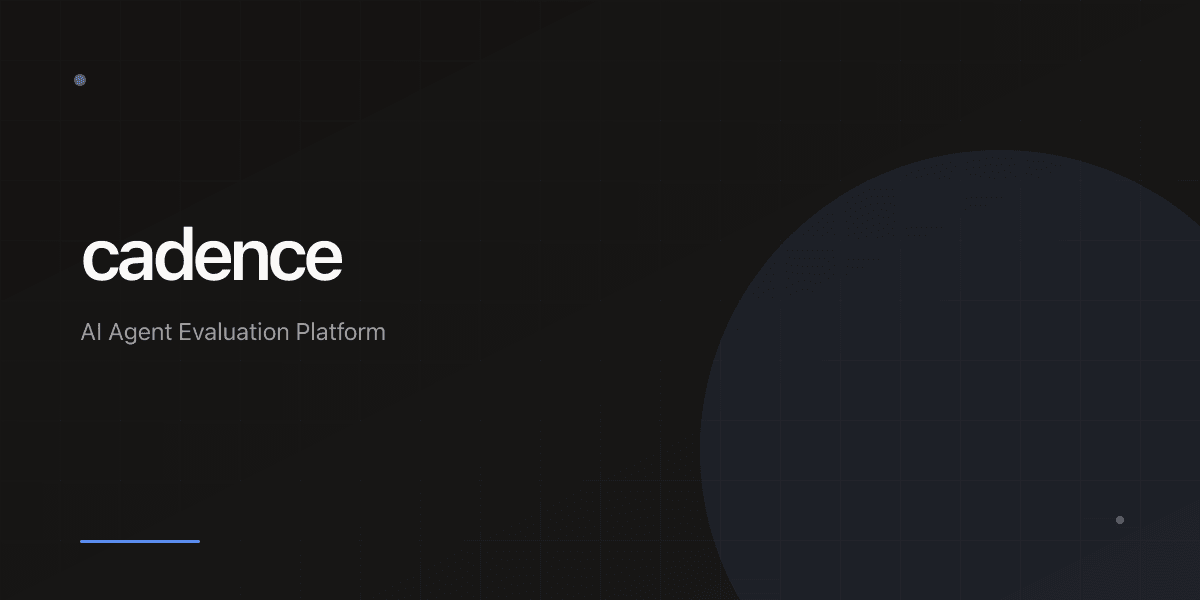
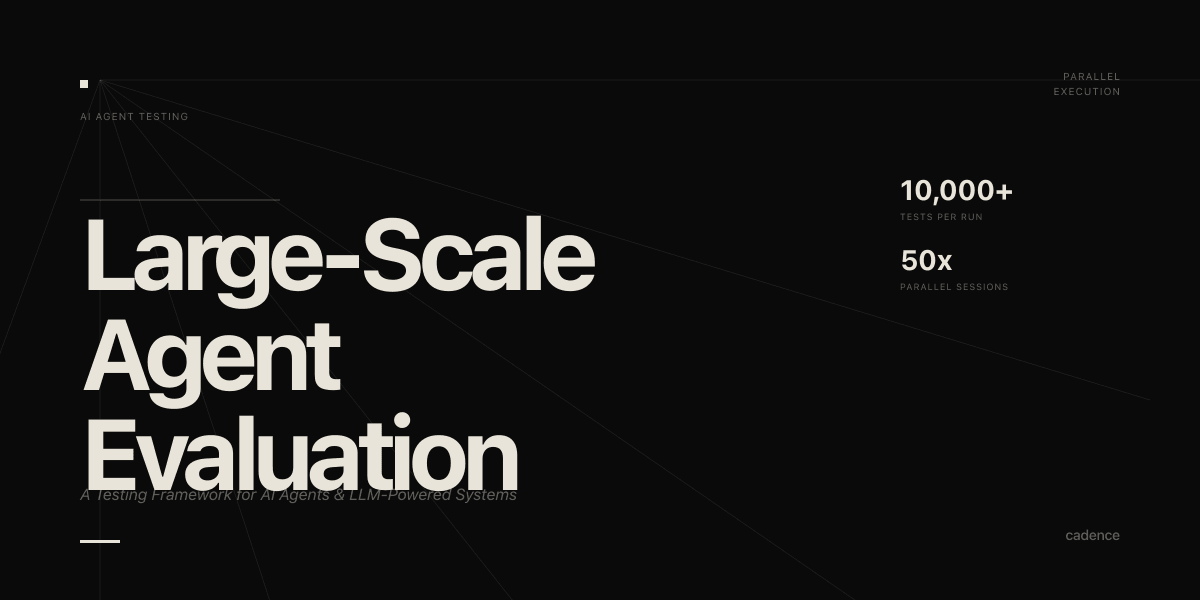
Update brand assets with Neo-Brutalist style

diff --git a/scripts/generate-assets.ts b/scripts/generate-assets.ts
@@ -2,13 +2,13 @@ import sharp from "sharp";
 import { writeFileSync } from "fs";
 import { join } from "path";
 
-// Brand colors extracted from globals.css (oklch converted to hex approximations)
+// Brand colors from landing page
 const COLORS = {
-  background: "#141211", // oklch(0.085 0.01 20)
-  foreground: "#faf9f8", // oklch(0.98 0.005 20)
-  accent: "#5b8def", // oklch(0.65 0.15 250)
-  muted: "#3d3a38", // oklch(0.2 0.008 20)
-  border: "#4a4644", // oklch(0.25 0.008 20)
+  background: "#0A0A0A",
+  foreground: "#E8E4D9",
+  foregroundMuted: "rgba(232, 228, 217, 0.4)",
+  foregroundSubtle: "rgba(232, 228, 217, 0.1)",
+  border: "rgba(232, 228, 217, 0.1)",
 };
 
 const PUBLIC_DIR = join(process.cwd(), "public");
@@ -18,57 +18,123 @@ async function generateOGImage(
   height: number,
   filename: string
 ) {
-  // Create SVG with brand elements
+  // Neo-Brutalist Swiss Typography style matching landing page
   const svg = `
     <svg width="${width}" height="${height}" xmlns="http://www.w3.org/2000/svg">
       <defs>
-        <linearGradient id="grain" x1="0%" y1="0%" x2="100%" y2="100%">
-          <stop offset="0%" style="stop-color:${COLORS.background};stop-opacity:1" />
-          <stop offset="100%" style="stop-color:#1a1918;stop-opacity:1" />
-        </linearGradient>
-        <!-- Subtle grid pattern -->
-        <pattern id="grid" width="60" height="60" patternUnits="userSpaceOnUse">
-          <path d="M 60 0 L 0 0 0 60" fill="none" stroke="${COLORS.border}" stroke-width="0.5" opacity="0.3"/>
+        <!-- Grain texture filter -->
+        <filter id="grain" x="0" y="0" width="100%" height="100%">
+          <feTurbulence type="fractalNoise" baseFrequency="0.9" numOctaves="4" result="noise"/>
+          <feColorMatrix type="saturate" values="0"/>
+          <feBlend in="SourceGraphic" in2="noise" mode="multiply"/>
+        </filter>
+
+        <!-- Radial lines pattern -->
+        <pattern id="radialLines" x="0" y="0" width="${width}" height="${height}" patternUnits="userSpaceOnUse">
+          <line x1="100" y1="80" x2="1200" y2="80" stroke="${COLORS.foreground}" stroke-width="0.5" opacity="0.15"/>
+          <line x1="100" y1="80" x2="1150" y2="400" stroke="${COLORS.foreground}" stroke-width="0.5" opacity="0.15"/>
+          <line x1="100" y1="80" x2="1000" y2="700" stroke="${COLORS.foreground}" stroke-width="0.5" opacity="0.15"/>
+          <line x1="100" y1="80" x2="750" y2="900" stroke="${COLORS.foreground}" stroke-width="0.5" opacity="0.15"/>
+          <line x1="100" y1="80" x2="400" y2="1000" stroke="${COLORS.foreground}" stroke-width="0.5" opacity="0.15"/>
+          <line x1="100" y1="80" x2="100" y2="1000" stroke="${COLORS.foreground}" stroke-width="0.5" opacity="0.15"/>
+          <line x1="100" y1="80" x2="-200" y2="900" stroke="${COLORS.foreground}" stroke-width="0.5" opacity="0.15"/>
         </pattern>
       </defs>
 
       <!-- Background -->
-      <rect width="100%" height="100%" fill="url(#grain)"/>
+      <rect width="100%" height="100%" fill="${COLORS.background}"/>
 
-      <!-- Grid overlay -->
-      <rect width="100%" height="100%" fill="url(#grid)"/>
+      <!-- Radial lines overlay -->
+      <rect width="100%" height="100%" fill="url(#radialLines)"/>
 
-      <!-- Accent circle -->
-      <circle cx="${width - 200}" cy="${height - 150}" r="300" fill="${COLORS.accent}" opacity="0.08"/>
+      <!-- Grain overlay -->
+      <rect width="100%" height="100%" fill="${COLORS.background}" opacity="0.03" filter="url(#grain)"/>
 
-      <!-- Small decorative elements -->
-      <circle cx="80" cy="80" r="6" fill="${COLORS.accent}" opacity="0.6"/>
-      <circle cx="${width - 80}" cy="${height - 80}" r="4" fill="${COLORS.foreground}" opacity="0.3"/>
+      <!-- Small decorative square (logo mark) -->
+      <rect x="80" y="80" width="8" height="8" fill="${COLORS.foreground}"/>
 
-      <!-- Main wordmark -->
+      <!-- Floating label top-left -->
+      <text x="80" y="120" font-family="system-ui, -apple-system, sans-serif" font-size="10" fill="${COLORS.foregroundMuted}" letter-spacing="0.1em">
+        AI AGENT TESTING
+      </text>
+
+      <!-- Floating label top-right -->
+      <text x="${width - 80}" y="80" font-family="system-ui, -apple-system, sans-serif" font-size="10" fill="${COLORS.foregroundMuted}" letter-spacing="0.1em" text-anchor="end">
+        PARALLEL
+      </text>
+      <text x="${width - 80}" y="95" font-family="system-ui, -apple-system, sans-serif" font-size="10" fill="${COLORS.foregroundMuted}" letter-spacing="0.1em" text-anchor="end">
+        EXECUTION
+      </text>
+
+      <!-- Horizontal divider line -->
+      <line x1="80" y1="200" x2="280" y2="200" stroke="${COLORS.foreground}" stroke-width="1" opacity="0.3"/>
+
+      <!-- Main headline - Large-Scale -->
       <text
         x="80"
-        y="${height / 2 - 20}"
+        y="290"
         font-family="system-ui, -apple-system, sans-serif"
-        font-size="72"
-        font-weight="600"
+        font-size="100"
+        font-weight="700"
         fill="${COLORS.foreground}"
-        letter-spacing="-0.03em"
+        letter-spacing="-0.04em"
+      >Large-Scale</text>
+
+      <!-- Main headline - Agent -->
+      <text
+        x="80"
+        y="390"
+        font-family="system-ui, -apple-system, sans-serif"
+        font-size="100"
+        font-weight="700"
+        fill="${COLORS.foreground}"
+        letter-spacing="-0.04em"
+      >Agent</text>
+
+      <!-- Main headline - Evaluation -->
+      <text
+        x="80"
+        y="490"
+        font-family="system-ui, -apple-system, sans-serif"
+        font-size="100"
+        font-weight="700"
+        fill="${COLORS.foreground}"
+        letter-spacing="-0.04em"
+      >Evaluation</text>
+
+      <!-- Tagline italic -->
+      <text
+        x="80"
+        y="${height - 100}"
+        font-family="system-ui, -apple-system, sans-serif"
+        font-size="16"
+        font-style="italic"
+        fill="${COLORS.foregroundMuted}"
+      >A Testing Framework for AI Agents &amp; LLM-Powered Systems</text>
+
+      <!-- Bottom decorative elements -->
+      <rect x="80" y="${height - 60}" width="40" height="3" fill="${COLORS.foreground}"/>
+
+      <!-- Brand name bottom right -->
+      <text
+        x="${width - 80}"
+        y="${height - 60}"
+        font-family="system-ui, -apple-system, sans-serif"
+        font-size="14"
+        font-weight="500"
+        fill="${COLORS.foregroundMuted}"
+        text-anchor="end"
+        letter-spacing="-0.02em"
       >cadence</text>
 
-      <!-- Tagline -->
-      <text
-        x="80"
-        y="${height / 2 + 40}"
-        font-family="system-ui, -apple-system, sans-serif"
-        font-size="24"
-        fill="${COLORS.foreground}"
-        opacity="0.6"
-        letter-spacing="0.02em"
-      >AI Agent Evaluation Platform</text>
+      <!-- Stats indicators -->
+      <g transform="translate(${width - 300}, 200)">
+        <text x="0" y="0" font-family="system-ui, -apple-system, sans-serif" font-size="28" font-weight="700" fill="${COLORS.foreground}">10,000+</text>
+        <text x="0" y="20" font-family="system-ui, -apple-system, sans-serif" font-size="9" fill="${COLORS.foregroundMuted}" letter-spacing="0.1em">TESTS PER RUN</text>
 
-      <!-- Bottom accent line -->
-      <rect x="80" y="${height - 60}" width="120" height="3" fill="${COLORS.accent}" rx="1.5"/>
+        <text x="0" y="70" font-family="system-ui, -apple-system, sans-serif" font-size="28" font-weight="700" fill="${COLORS.foreground}">50x</text>
+        <text x="0" y="90" font-family="system-ui, -apple-system, sans-serif" font-size="9" fill="${COLORS.foregroundMuted}" letter-spacing="0.1em">PARALLEL SESSIONS</text>
+      </g>
     </svg>
   `;
 
@@ -78,22 +144,28 @@ async function generateOGImage(
 }
 
 async function generateFavicon() {
-  // Simple "C" mark favicon
-  const createFaviconSvg = (size: number) => `
+  // Minimalist square mark favicon (matching the logo mark on landing)
+  const createFaviconSvg = (size: number) => {
+    const padding = Math.floor(size * 0.2);
+    const squareSize = Math.floor(size * 0.35);
+    return `
     <svg width="${size}" height="${size}" xmlns="http://www.w3.org/2000/svg">
-      <rect width="100%" height="100%" fill="${COLORS.background}" rx="${size * 0.15}"/>
+      <rect width="100%" height="100%" fill="${COLORS.background}"/>
+      <!-- Simple "c" letterform -->
       <text
         x="50%"
-        y="50%"
+        y="54%"
         dominant-baseline="central"
         text-anchor="middle"
         font-family="system-ui, -apple-system, sans-serif"
-        font-size="${size * 0.6}"
+        font-size="${size * 0.65}"
         font-weight="700"
         fill="${COLORS.foreground}"
+        letter-spacing="-0.04em"
       >c</text>
     </svg>
   `;
+  };
 
   // Generate multiple sizes for ICO
   const sizes = [16, 32, 48];
@@ -114,7 +186,6 @@ async function generateFavicon() {
   writeFileSync(join(PUBLIC_DIR, "favicon.svg"), createFaviconSvg(32));
 
   // Generate ICO (use 32x32 as primary)
-  // ICO format header
   const icoHeader = Buffer.alloc(6);
   icoHeader.writeUInt16LE(0, 0); // Reserved
   icoHeader.writeUInt16LE(1, 2); // ICO type
@@ -155,13 +226,14 @@ async function generateAppleIcon() {
       <rect width="100%" height="100%" fill="${COLORS.background}"/>
       <text
         x="50%"
-        y="50%"
+        y="54%"
         dominant-baseline="central"
         text-anchor="middle"
         font-family="system-ui, -apple-system, sans-serif"
-        font-size="${size * 0.5}"
+        font-size="${size * 0.55}"
         font-weight="700"
         fill="${COLORS.foreground}"
+        letter-spacing="-0.04em"
       >c</text>
     </svg>
   `;
@@ -172,7 +244,7 @@ async function generateAppleIcon() {
 }
 
 async function main() {
-  console.log("\n🎨 Generating brand assets for Cadence...\n");
+  console.log("\n🎨 Generating brand assets for Cadence (Neo-Brutalist style)...\n");
 
   await generateOGImage(1200, 630, "og.png");
   await generateOGImage(1200, 600, "og-twitter.png");
